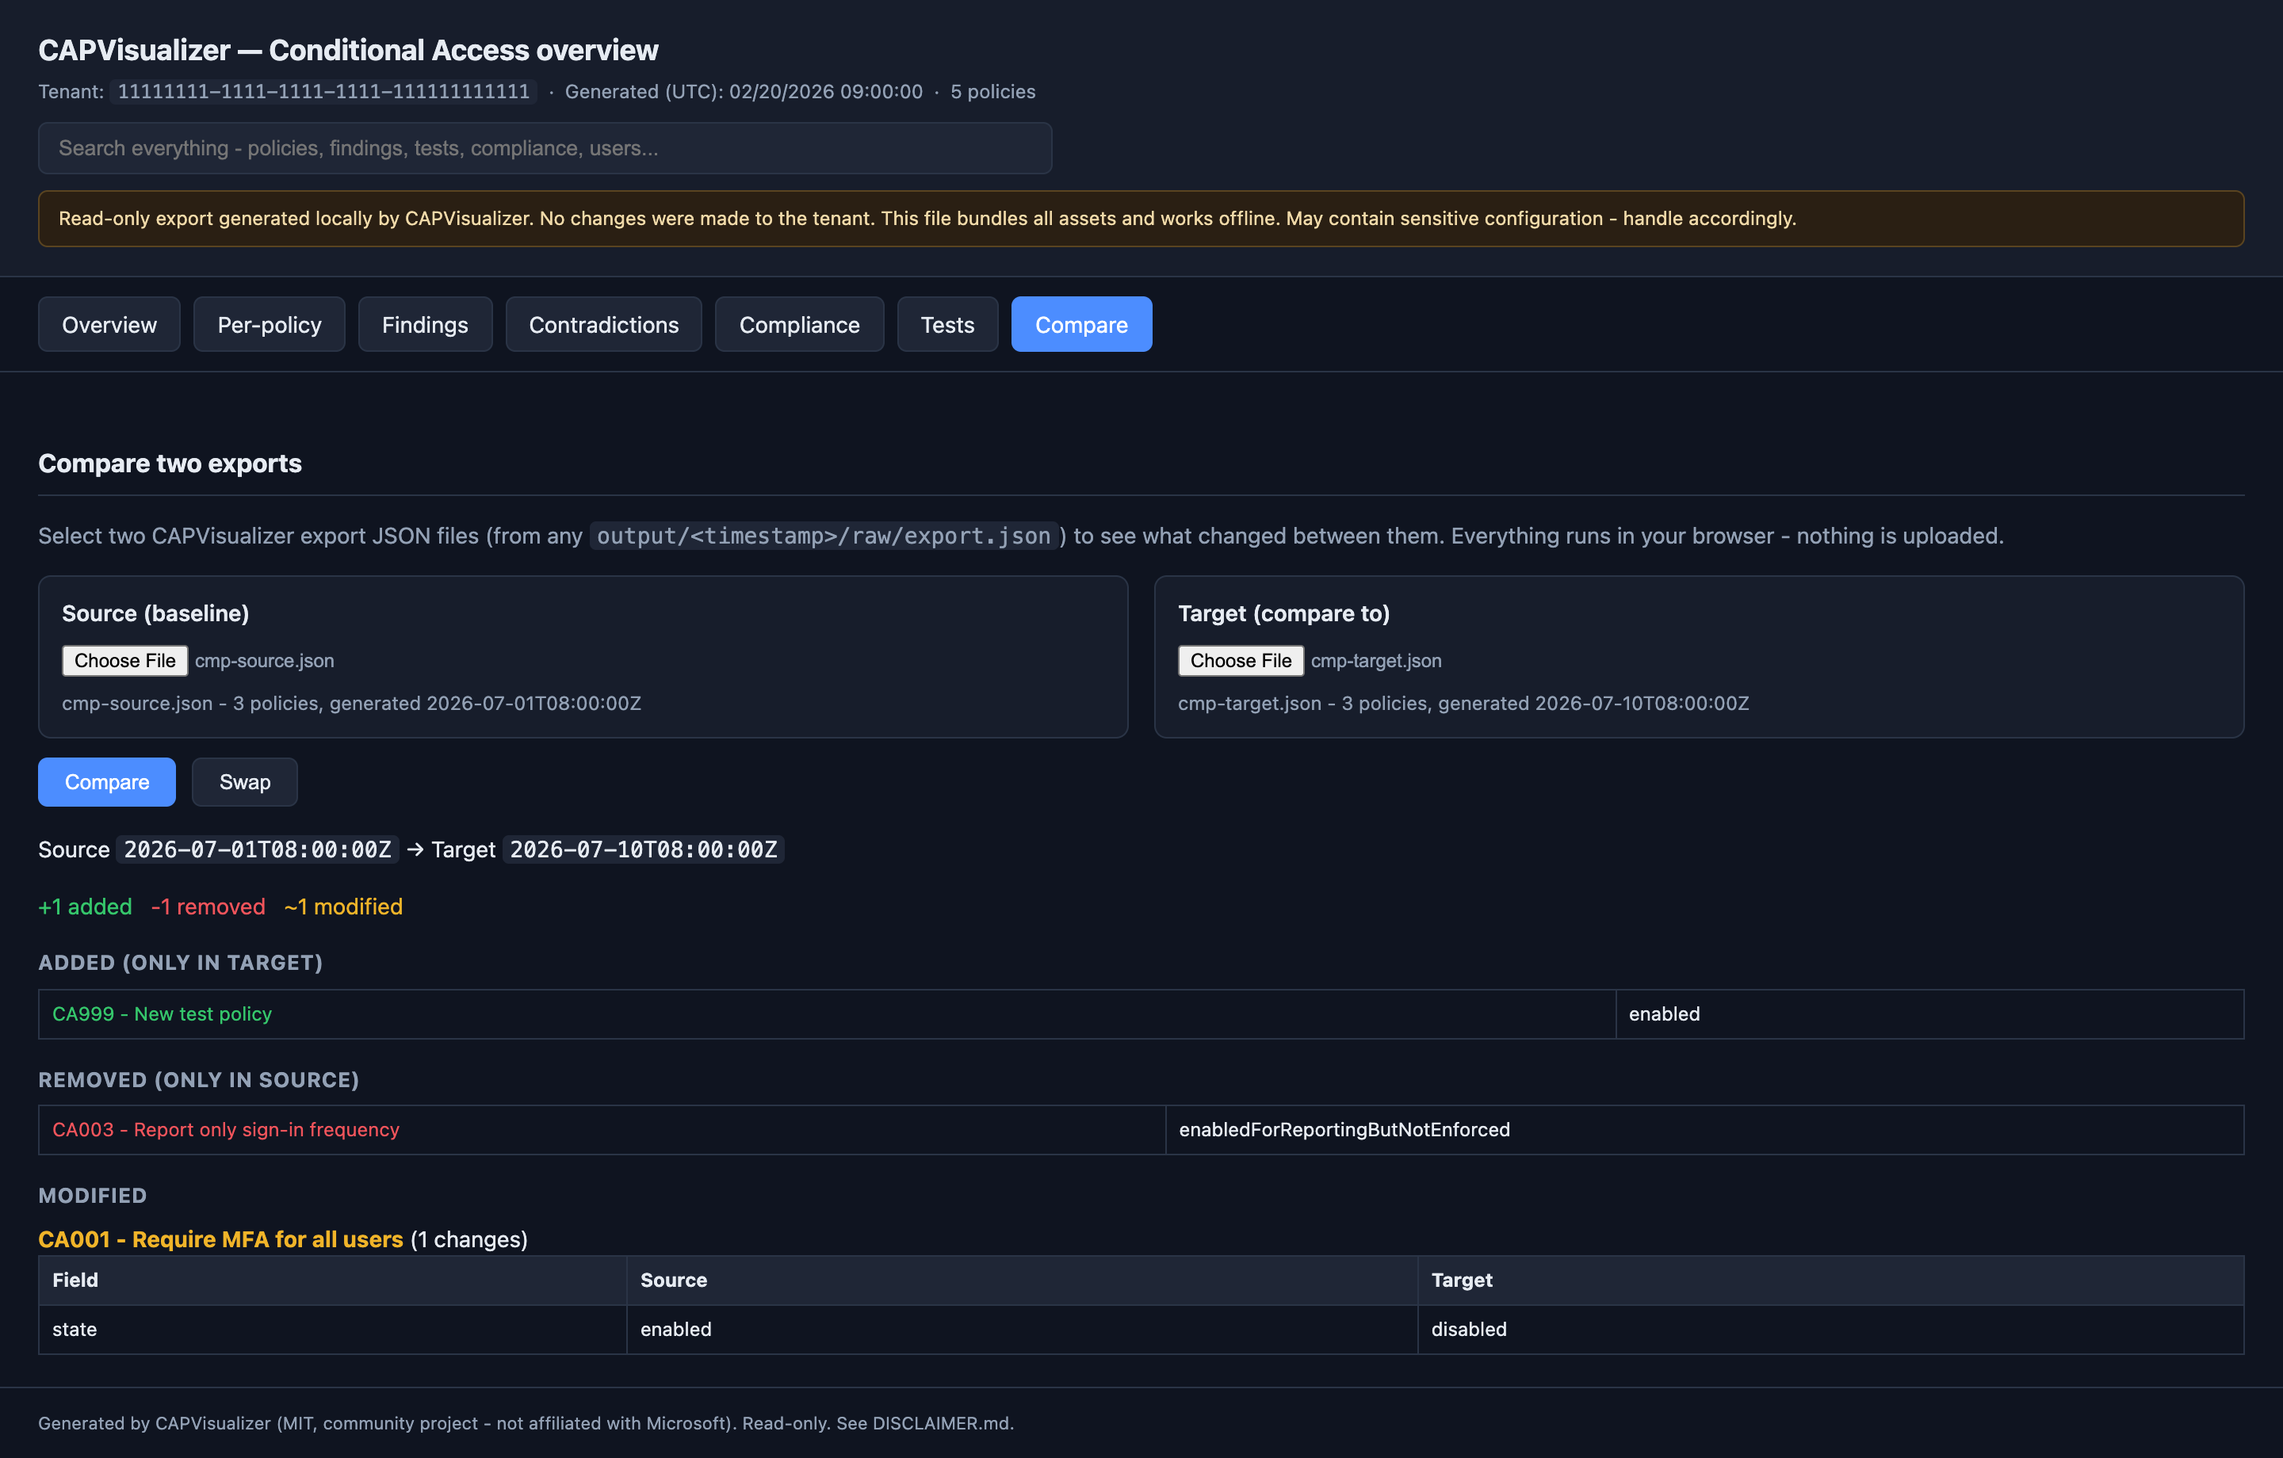
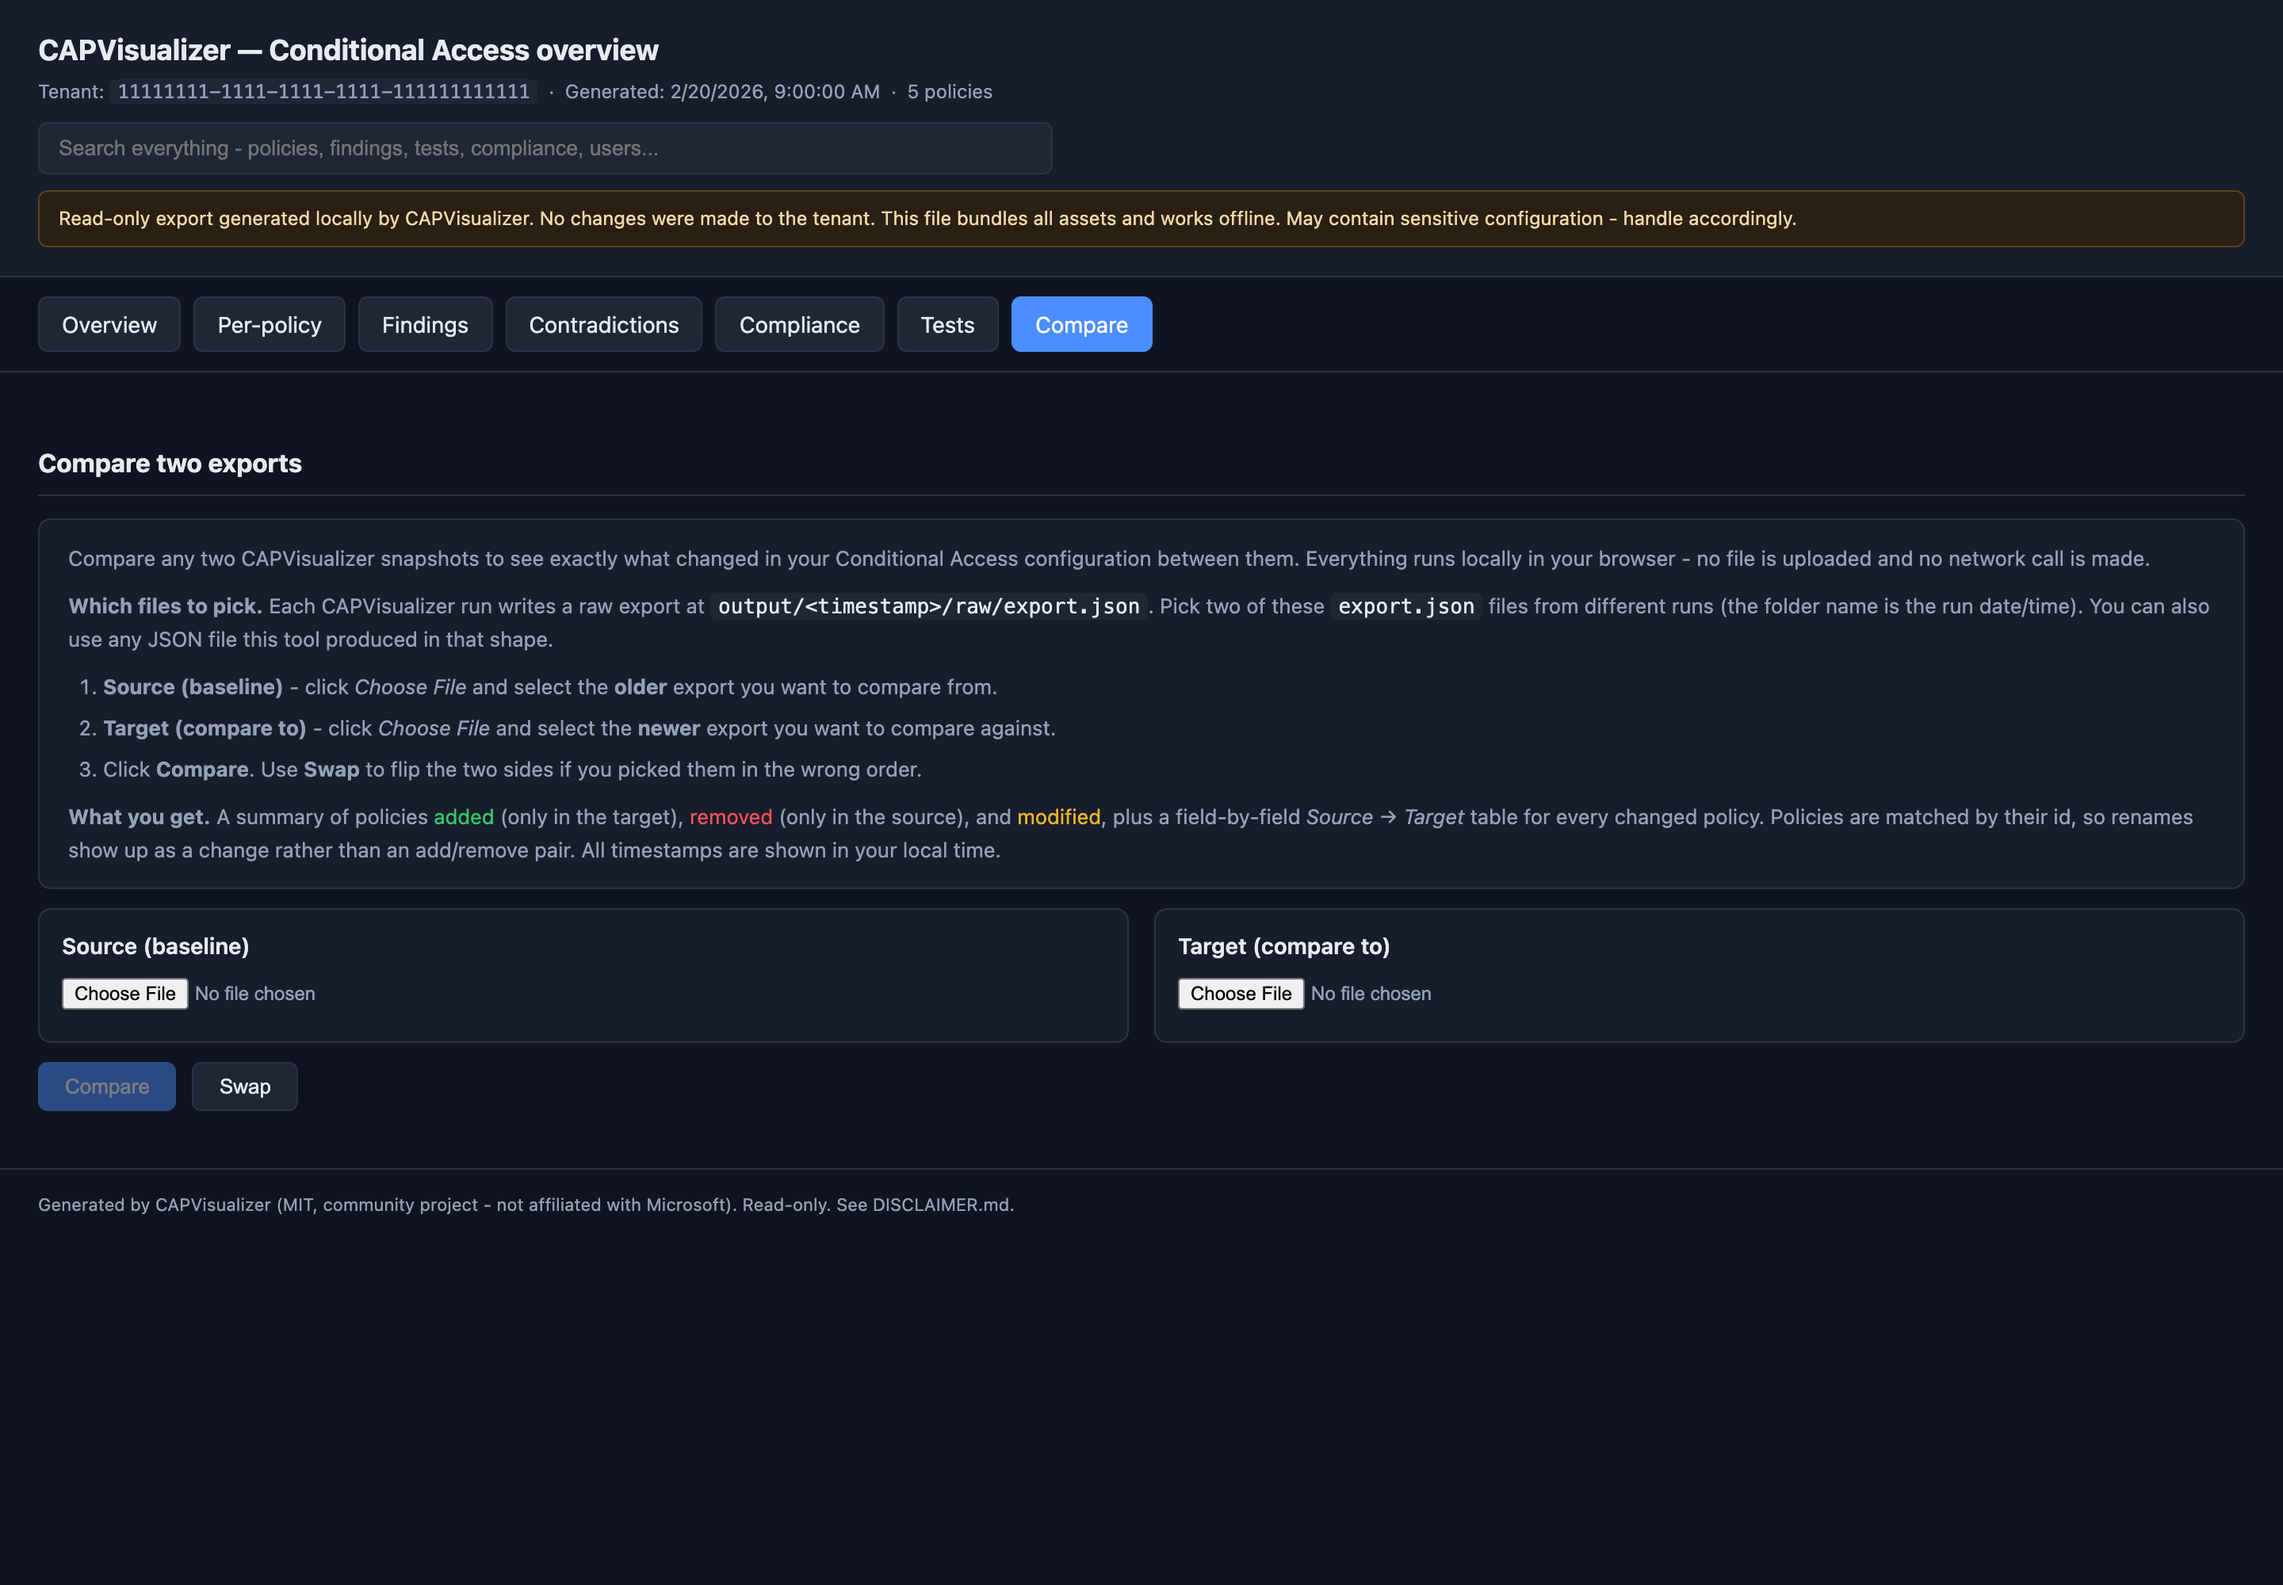
Show timestamps in local time and expand Compare tab help
- All timestamps in the viewer now render in the browser's local time
  zone instead of raw UTC: the header "Generated" value (relabelled from
  "Generated (UTC)"), the per-policy "modified" date, the Delta baseline
  and current times, and the Compare file info and result headings. A
  new fmtLocal helper formats parseable dates via toLocaleString and
  leaves unparseable strings untouched; server-injected header stamps
  carry a data-utc attribute and are localized on load.
- The Compare tab gains a detailed help block: what it does, which
  files to pick (output/<timestamp>/raw/export.json), a numbered
  Source/Target/Compare walkthrough with the Swap hint, and an
  explanation of the added/removed/modified results and id matching.

diff --git a/assets/app.js b/assets/app.js
@@ -16,6 +16,22 @@
   }
 
   function el(id) { return document.getElementById(id); }
+  // Format an ISO 8601 / UTC timestamp in the viewer's local time zone. Returns
+  // the original string unchanged when it is empty or not a parseable date.
+  function fmtLocal(iso) {
+    if (iso === null || iso === undefined || iso === "") return "";
+    var d = new Date(iso);
+    if (isNaN(d.getTime())) return String(iso);
+    return d.toLocaleString();
+  }
+  // Convert any server-injected timestamp (elements with class "ts" and a
+  // data-utc attribute) into local time once the DOM is ready.
+  function localizeStamps() {
+    document.querySelectorAll(".ts[data-utc]").forEach(function (n) {
+      var v = n.getAttribute("data-utc");
+      if (v) n.textContent = fmtLocal(v);
+    });
+  }
   function esc(s) {
     if (s === null || s === undefined) return "";
     return String(s).replace(/[&<>"']/g, function (c) {
@@ -166,7 +182,7 @@
     var html = "" +
       '<h2>' + esc(p.displayName) + ' <span class="pill ' + (p.state === "enabled" ? "ok" : "") + '">' + esc(stateLabel(p.state)) + "</span></h2>" +
       '<div class="muted" style="margin-bottom:12px">id: <code>' + esc(p.id) + "</code>" +
-      (p.modifiedDateTime ? " &nbsp;·&nbsp; modified: " + esc(p.modifiedDateTime) : "") + link + "</div>" +
+      (p.modifiedDateTime ? " &nbsp;·&nbsp; modified: " + esc(fmtLocal(p.modifiedDateTime)) : "") + link + "</div>" +
       '<div class="flow">' +
         '<div class="flowcol"><h3>' + usersTitle + "</h3>" + incExc(userInc, userExc) + "</div>" +
         '<div class="arrow">&rarr;</div>' +
@@ -219,7 +235,7 @@
   function renderDelta() {
     var d = DATA.delta;
     if (!d) { el("deltaTab").classList.add("hidden"); return; }
-    var h = "<p>Compared against baseline <code>" + esc(d.baselineUtc) + "</code></p>" +
+    var h = "<p>Compared against baseline <code>" + esc(fmtLocal(d.baselineUtc)) + "</code></p>" +
       '<p><span class="badge-add">+' + d.addedCount + " added</span> &nbsp; " +
       '<span class="badge-remove">-' + d.removedCount + " removed</span> &nbsp; " +
       '<span class="badge-mod">~' + d.modifiedCount + " modified</span></p>";
@@ -326,8 +342,8 @@
   }
 
   function renderCompareResult(d) {
-    var h = "<p>Source <code>" + esc(d.baselineUtc) + "</code> &rarr; Target <code>" +
-      esc(d.currentUtc) + "</code></p>" +
+    var h = "<p>Source <code>" + esc(fmtLocal(d.baselineUtc)) + "</code> &rarr; Target <code>" +
+      esc(fmtLocal(d.currentUtc)) + "</code></p>" +
       '<p><span class="badge-add">+' + d.addedCount + " added</span> &nbsp; " +
       '<span class="badge-remove">-' + d.removedCount + " removed</span> &nbsp; " +
       '<span class="badge-mod">~' + d.modifiedCount + " modified</span></p>";
@@ -378,7 +394,7 @@
         if (which === "source") cmpSourceData = data; else cmpTargetData = data;
         var meta = data.metadata || {};
         if (infoEl) infoEl.textContent = file.name + " - " + (data.policies.length) +
-          " policies" + (meta.generatedUtc ? ", generated " + meta.generatedUtc : "");
+          " policies" + (meta.generatedUtc ? ", generated " + fmtLocal(meta.generatedUtc) : "");
       } catch (e) {
         if (which === "source") cmpSourceData = null; else cmpTargetData = null;
         if (infoEl) infoEl.textContent = "Could not read this file: " + e.message;
@@ -625,6 +641,7 @@
   }
 
   window.addEventListener("DOMContentLoaded", function () {
+    localizeStamps();
     renderSummaryCards();
     renderFindings();
     renderAllTable();

diff --git a/assets/template.html b/assets/template.html
@@ -11,7 +11,7 @@ __STYLES__
 <body>
 <header>
   <h1>CAPVisualizer &mdash; Conditional Access overview</h1>
-  <div class="meta">Tenant: <code>__TENANT__</code> &nbsp;·&nbsp; Generated (UTC): __GENERATED__ &nbsp;·&nbsp; __POLICYCOUNT__ policies</div>
+  <div class="meta">Tenant: <code>__TENANT__</code> &nbsp;·&nbsp; Generated: <span class="ts" data-utc="__GENERATED__">__GENERATED__</span> &nbsp;·&nbsp; __POLICYCOUNT__ policies</div>
   <div class="gsearch">
     <input id="gsearch" type="text" autocomplete="off" placeholder="Search everything - policies, findings, tests, compliance, users...">
     <div id="gresults" class="gresults hidden"></div>
@@ -65,9 +65,32 @@ __STYLES__
 <div id="pane-compare" class="hidden">
   <div class="main">
     <h2>Compare two exports</h2>
-    <p class="muted">Select two CAPVisualizer export JSON files (from any
-      <code>output/&lt;timestamp&gt;/raw/export.json</code>) to see what changed
-      between them. Everything runs in your browser - nothing is uploaded.</p>
+    <div class="cmp-help">
+      <p>Compare any two CAPVisualizer snapshots to see exactly what changed in
+        your Conditional Access configuration between them. Everything runs
+        locally in your browser - no file is uploaded and no network call is
+        made.</p>
+      <p><b>Which files to pick.</b> Each CAPVisualizer run writes a raw export
+        at <code>output/&lt;timestamp&gt;/raw/export.json</code>. Pick two of
+        these <code>export.json</code> files from different runs (the folder name
+        is the run date/time). You can also use any JSON file this tool
+        produced in that shape.</p>
+      <ol class="cmp-steps">
+        <li><b>Source (baseline)</b> - click <i>Choose File</i> and select the
+          <b>older</b> export you want to compare from.</li>
+        <li><b>Target (compare to)</b> - click <i>Choose File</i> and select the
+          <b>newer</b> export you want to compare against.</li>
+        <li>Click <b>Compare</b>. Use <b>Swap</b> to flip the two sides if you
+          picked them in the wrong order.</li>
+      </ol>
+      <p><b>What you get.</b> A summary of policies
+        <span class="badge-add">added</span> (only in the target),
+        <span class="badge-remove">removed</span> (only in the source), and
+        <span class="badge-mod">modified</span>, plus a field-by-field
+        <i>Source &rarr; Target</i> table for every changed policy. Policies are
+        matched by their id, so renames show up as a change rather than an
+        add/remove pair. All timestamps are shown in your local time.</p>
+    </div>
     <div class="cmp-pick">
       <div class="cmp-slot">
         <label for="cmpSource">Source (baseline)</label>

diff --git a/assets/styles.css b/assets/styles.css
@@ -134,3 +134,10 @@ footer { padding: 14px 24px; color: var(--muted); font-size: 11px; border-top: 1
 .cmp-btn { padding: 7px 16px; border: 1px solid var(--accent); border-radius: 6px; background: var(--accent); color: #fff; cursor: pointer; font-size: 13px; }
 .cmp-btn:disabled { opacity: .45; cursor: not-allowed; }
 .cmp-btn-sec { background: var(--panel2); border-color: var(--border); color: var(--text); }
+
+/* Compare tab help block */
+.cmp-help { background: var(--panel); border: 1px solid var(--border); border-radius: 8px; padding: 4px 18px; margin: 12px 0; color: var(--muted); font-size: 13px; line-height: 1.55; }
+.cmp-help p { margin: 10px 0; }
+.cmp-help code { color: var(--text); }
+.cmp-steps { margin: 10px 0; padding-left: 22px; }
+.cmp-steps li { margin: 6px 0; }
